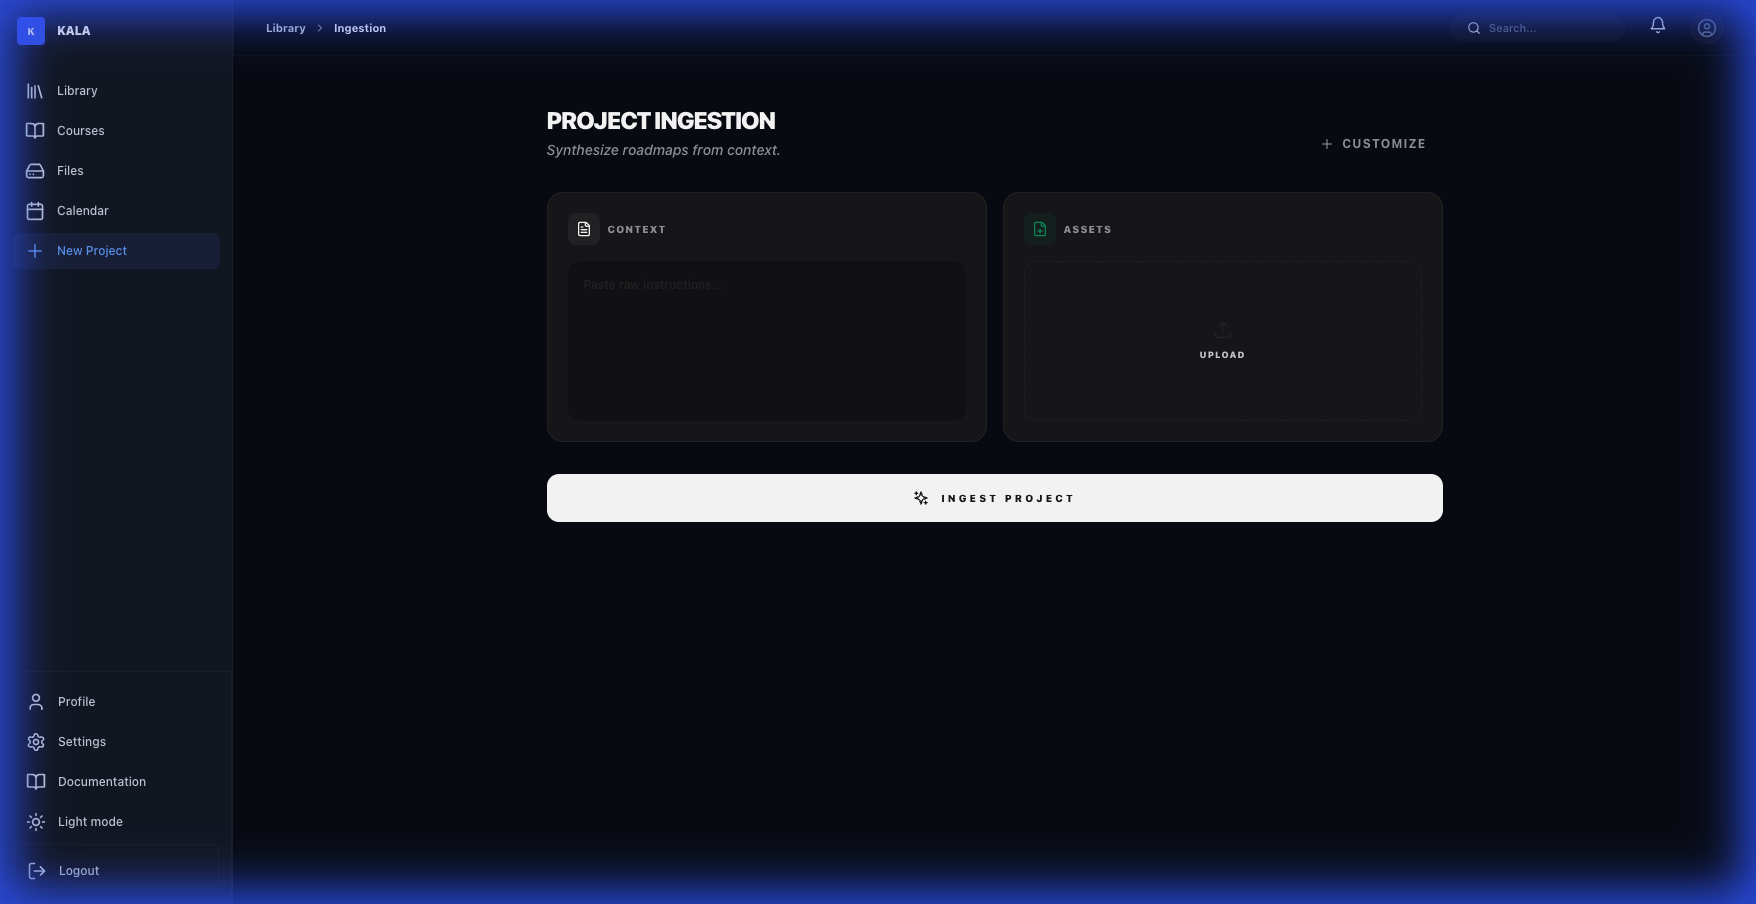
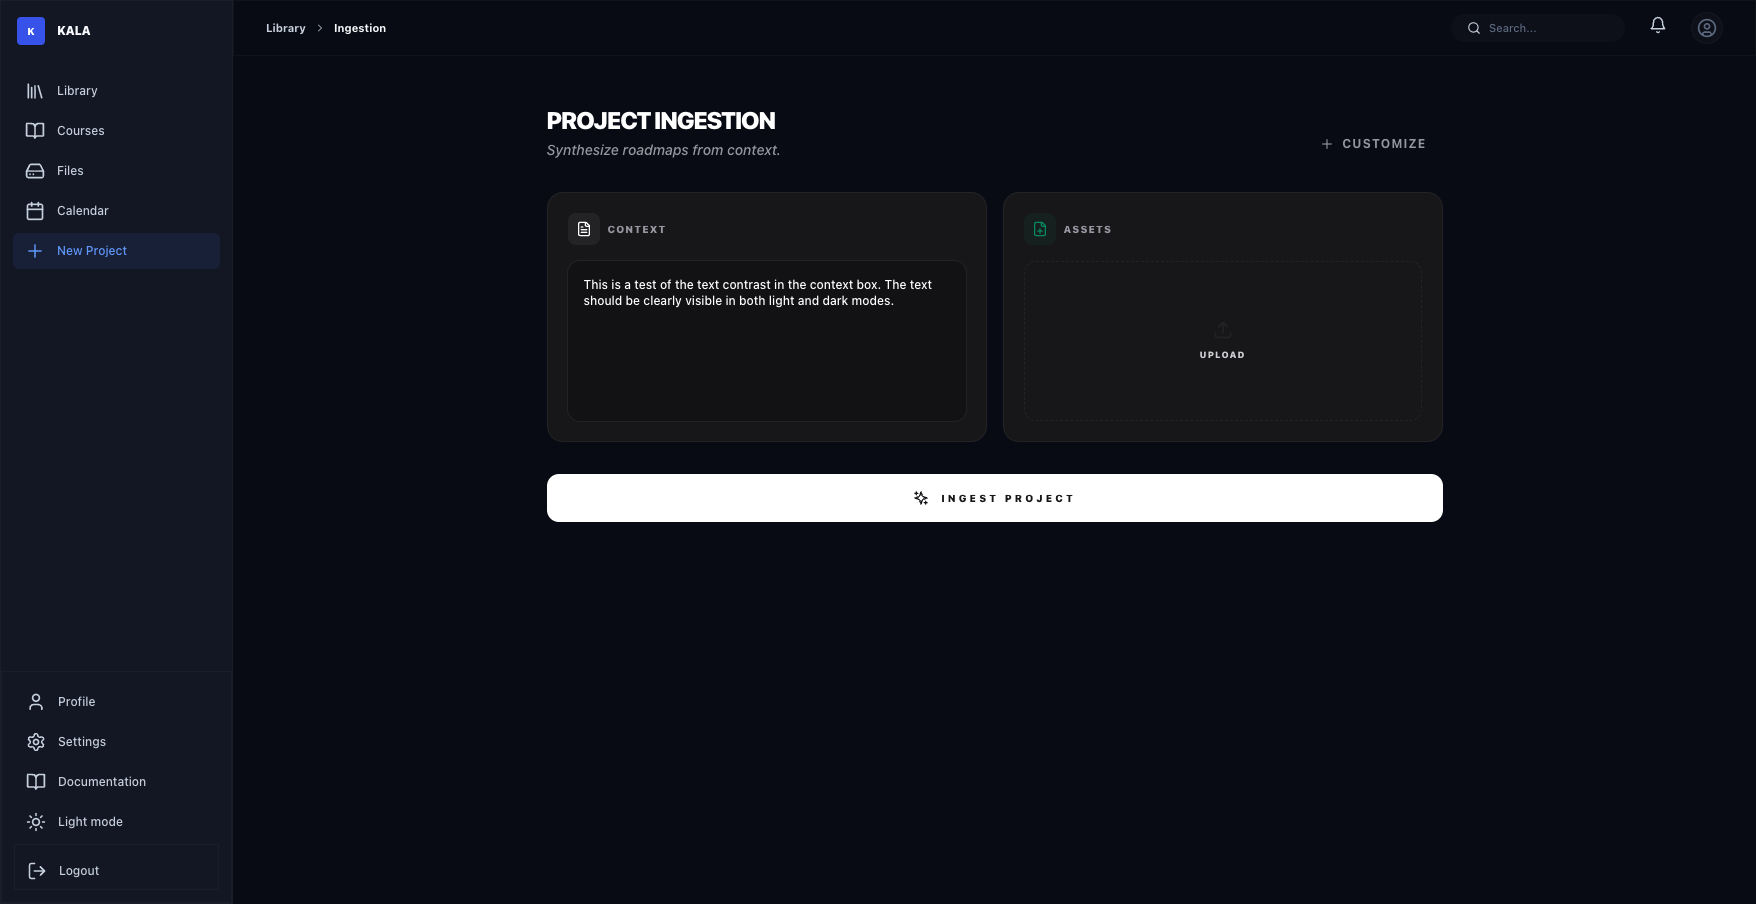
docs: update feature showcase with verified high-contrast ingestion previews
- Added side-by-side previews for Ingestion page (Light & Dark)
- Confirmed excellent legibility for context input text
- Synchronized Indonesian documentation with the new visual assets

Changed region(s): [[0.0, 0.0, 1.0, 1.0], [0.3383, 0.3097, 0.5228, 0.3407]]

diff --git a/README.id.md b/README.id.md
@@ -41,11 +41,12 @@ Ruang kerja fidelitas tinggi yang dirancang untuk fokus mendalam. Seluruh kecepa
 </div>
 
 ### 02. Neural Ingestion & Synthesis
-Hentikan entri data manual. Berikan KALA Silabus yang kompleks, PDF yang berantakan, atau foto catatan tangan Anda. Mesin neural kami mengekstrak konteks secara instan. Kini dioptimalkan sepenuhnya untuk **Dark Mode** dengan kontras legibilitas tinggi.
+Hentikan entri data manual. Berikan KALA Silabus yang kompleks, PDF yang berantakan, atau foto catatan tangan Anda. Mesin neural kami mengekstrak konteks secara instan. Kini dioptimalkan sepenuhnya untuk **Visibilitas Kontras Tinggi** di kedua mode.
 
 <div align="center">
-  <img src="public/assets/docs/ingestion-dark.png" width="90%" alt="Ingestion Dark Mode" style="border-radius: 12px; border: 1px solid #1f2937;"/>
-  <p><i>Project Ingestion: Menyintesis peta jalan dari konteks mentah secara mulus.</i></p>
+  <img src="public/assets/docs/ingestion-light.png" width="48%" alt="Ingestion Light Mode" style="border-radius: 8px; border: 1px solid #e2e8f0;"/>
+  <img src="public/assets/docs/ingestion-dark.png" width="48%" alt="Ingestion Dark Mode" style="border-radius: 8px; border: 1px solid #1f2937;"/>
+  <p><i>Project Ingestion: Menyintesis peta jalan dengan keterbacaan fidelitas tinggi (Terang & Gelap).</i></p>
 </div>
 
 ### 03. Jadwal Strategis & Penguasaan Kursus

diff --git a/README.md b/README.md
@@ -39,11 +39,12 @@ A high-fidelity workspace designed for deep focus. Your entire academic velocity
 </div>
 
 ### 02. Neural Ingestion & Synthesis
-Stop manual data entry. Feed KALA a complex Syllabus, a messy PDF, or a photo of your handwritten notes. Our neural engine extracts context, deadlines, and core concepts instantly. Now fully optimized for **Dark Mode** with high-legibility contrast.
+Stop manual data entry. Feed KALA a complex Syllabus, a messy PDF, or a photo of your handwritten notes. Our neural engine extracts context, deadlines, and core concepts instantly. Now fully optimized for **High-Contrast Visibility** in both modes.
 
 <div align="center">
-  <img src="public/assets/docs/ingestion-dark.png" width="90%" alt="Ingestion Dark Mode" style="border-radius: 12px; border: 1px solid #1f2937;"/>
-  <p><i>Project Ingestion: Seamlessly synthesizing roadmaps from raw context.</i></p>
+  <img src="public/assets/docs/ingestion-light.png" width="48%" alt="Ingestion Light Mode" style="border-radius: 8px; border: 1px solid #e2e8f0;"/>
+  <img src="public/assets/docs/ingestion-dark.png" width="48%" alt="Ingestion Dark Mode" style="border-radius: 8px; border: 1px solid #1f2937;"/>
+  <p><i>Project Ingestion: Seamlessly synthesizing roadmaps with high-fidelity legibility (Light & Dark).</i></p>
 </div>
 
 ### 03. Strategic Scheduling & Course Mastery
